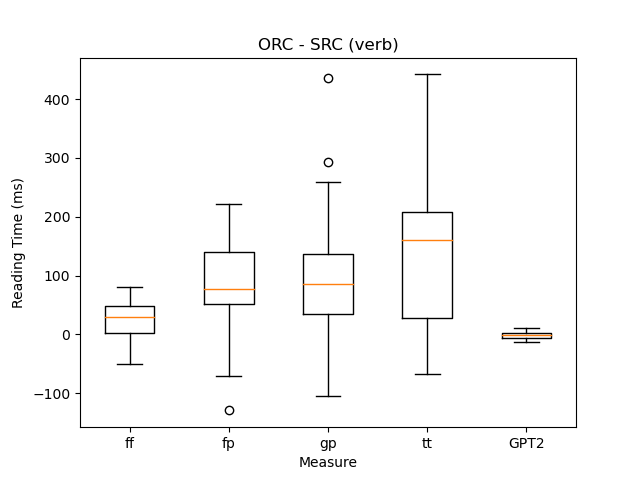
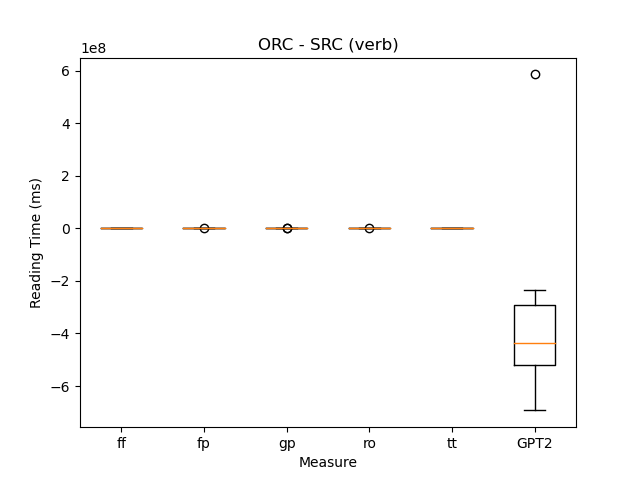
add ro to measurement list in data_utils

diff --git a/utils/graph_utils.py b/utils/graph_utils.py
@@ -3,7 +3,7 @@ import matplotlib.pyplot as plt
 import numpy as np
 import json 
 
-measurements = ['ff', 'fp', 'gp', 'tt', 'GPT2']
+measurements = ['ff', 'fp', 'gp', "ro", 'tt', 'GPT2']
 
 def plot_bar_graph(labels, title, measurements, men_means, women_means):
 
@@ -45,7 +45,7 @@ def plot_box_and_whisker(labels, data, title, save_location=None):
     plt.show()
 
 def print_box_and_whisker(segment_type):
-    data = json.load(open("data/augmented_data_normed.json"))
+    data = json.load(open("data/augmented_data.json"))
     # measurements = [key for key in data["ORC"]["1"][segment_type].keys() if key != "ro"]
     # print(measurements)
     graph_data = []
@@ -58,7 +58,7 @@ def print_box_and_whisker(segment_type):
 
 
 def plot_scatterplots(title, lm, x_data, y_data, plot_titles,  save_location=None):
-    fig, axs = plt.subplots(1, 4, figsize=(12, 4))
+    fig, axs = plt.subplots(1, 5, figsize=(15, 5))
     plt.suptitle(title)
     axs[0].set_ylabel(f'{lm} Surprisal Difference')
     axs[0].set_xlabel('Reading Time Difference (ms)')
@@ -78,19 +78,19 @@ def print_scatterplots(segment_type):
 
     x_data, y_data = [], []
     data = json.load(open("data/augmented_data.json"))
-    x_measurements = ["ff", "fp", "gp", "tt"]
-    items = [item for item in data["ORC"].keys() if item != "14"]
-    # items = data["ORC"]
+    x_measurements = [measure for measure in measurements if measure != 'GPT2']
+    # items = [item for item in data["ORC"].keys() if item != "14"]
+    items = data["ORC"]
     for measure in x_measurements:
         values = [data["ORC"][item][segment_type][measure]-data["SRC"][item][segment_type][measure] for item in items]
         x_data.append(values)
     y_data = [data["ORC"][item][segment_type][lm]-data["SRC"][item][segment_type][lm] for item in items]
     plot_scatterplots(title, lm, x_data, y_data, x_measurements, save_location=save_location)
     
-
-# print_box_and_whisker("NP")
-print_box_and_whisker("verb")
-# print_bar_graph("NP")
-# print_bar_graph("verb")
-# print_scatterplots("NP")
-# print_scatterplots("verb")
+if __name__ == "__main__":
+    print_box_and_whisker("NP")
+    print_box_and_whisker("verb")
+    print_bar_graph("NP")
+    print_bar_graph("verb")
+    print_scatterplots("NP")
+    print_scatterplots("verb")
